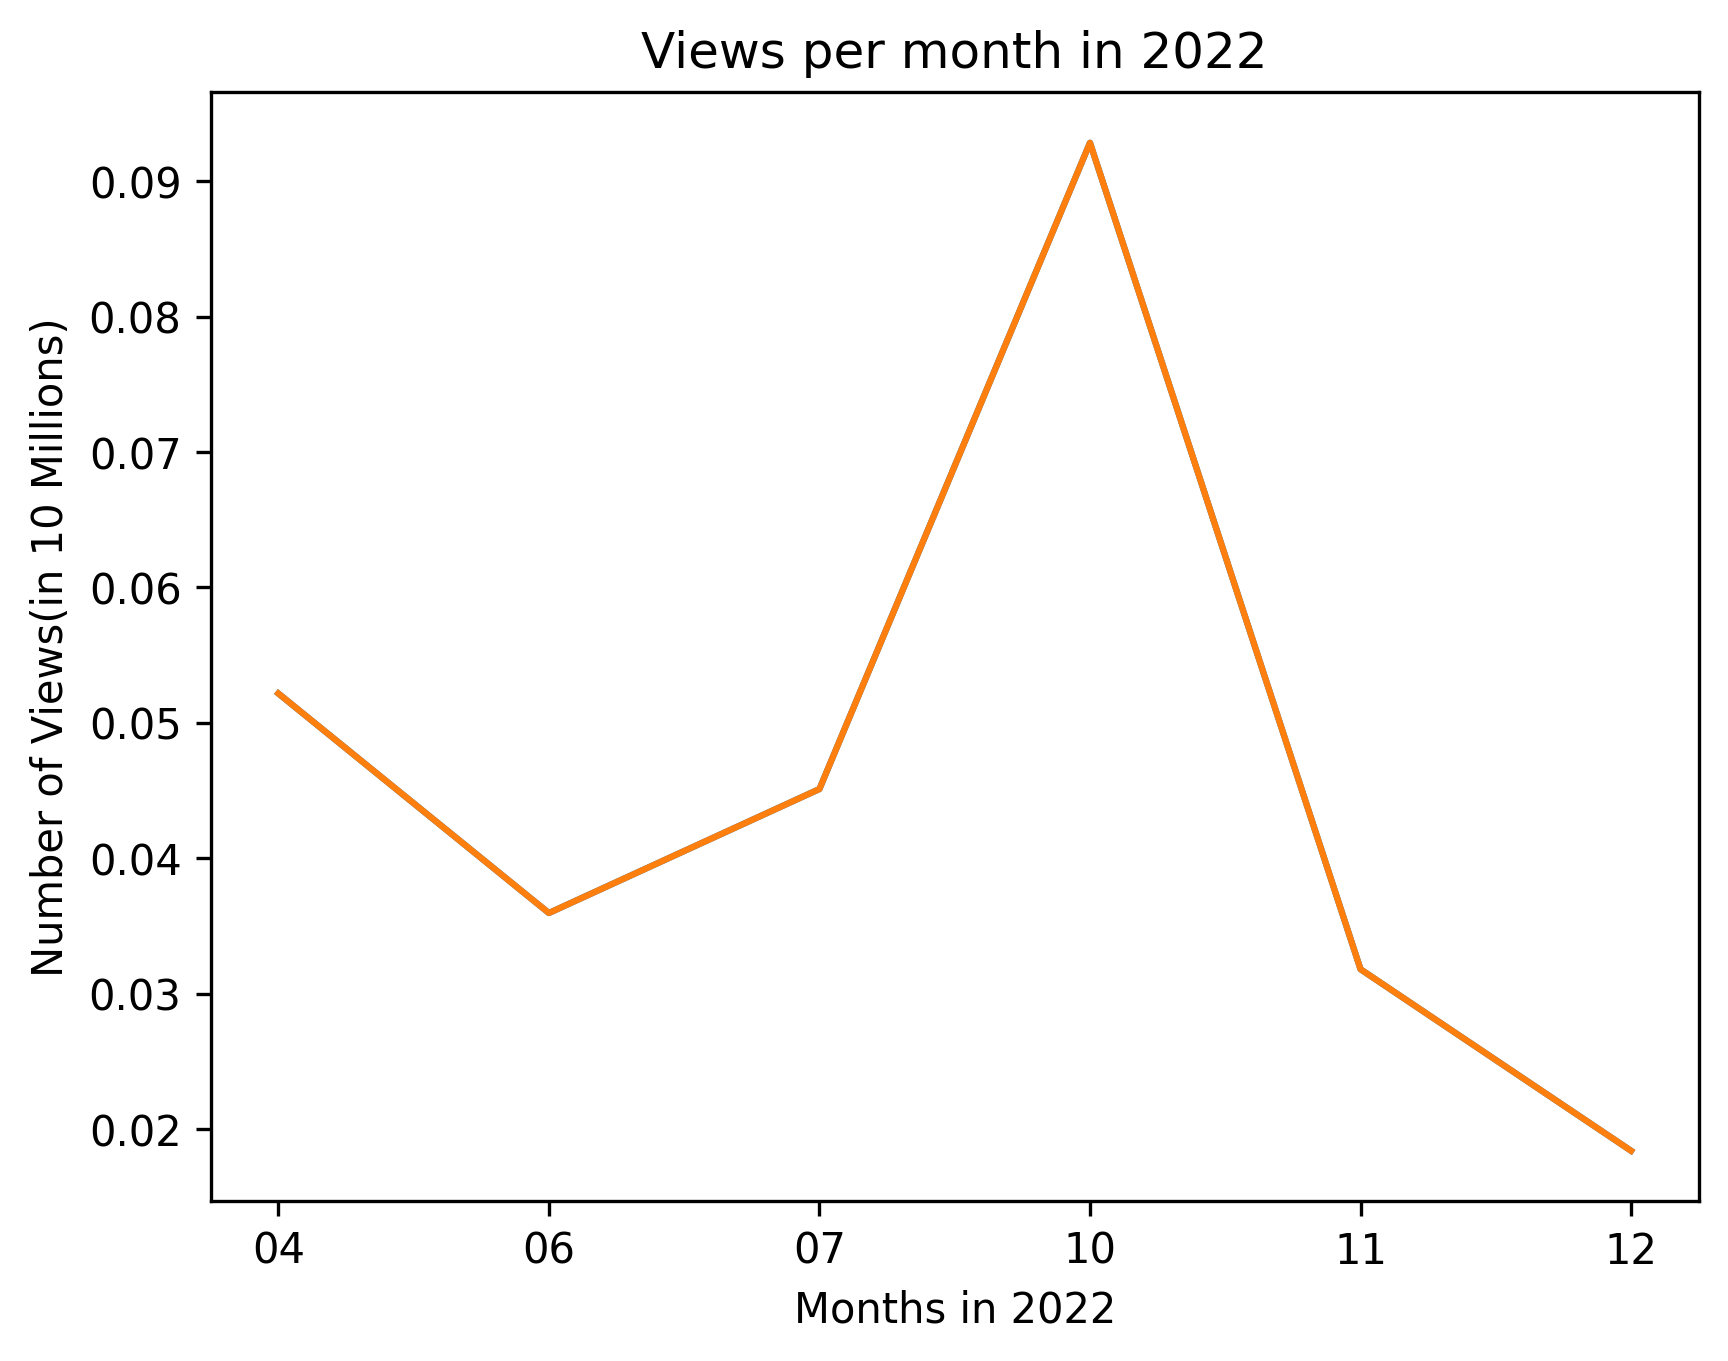
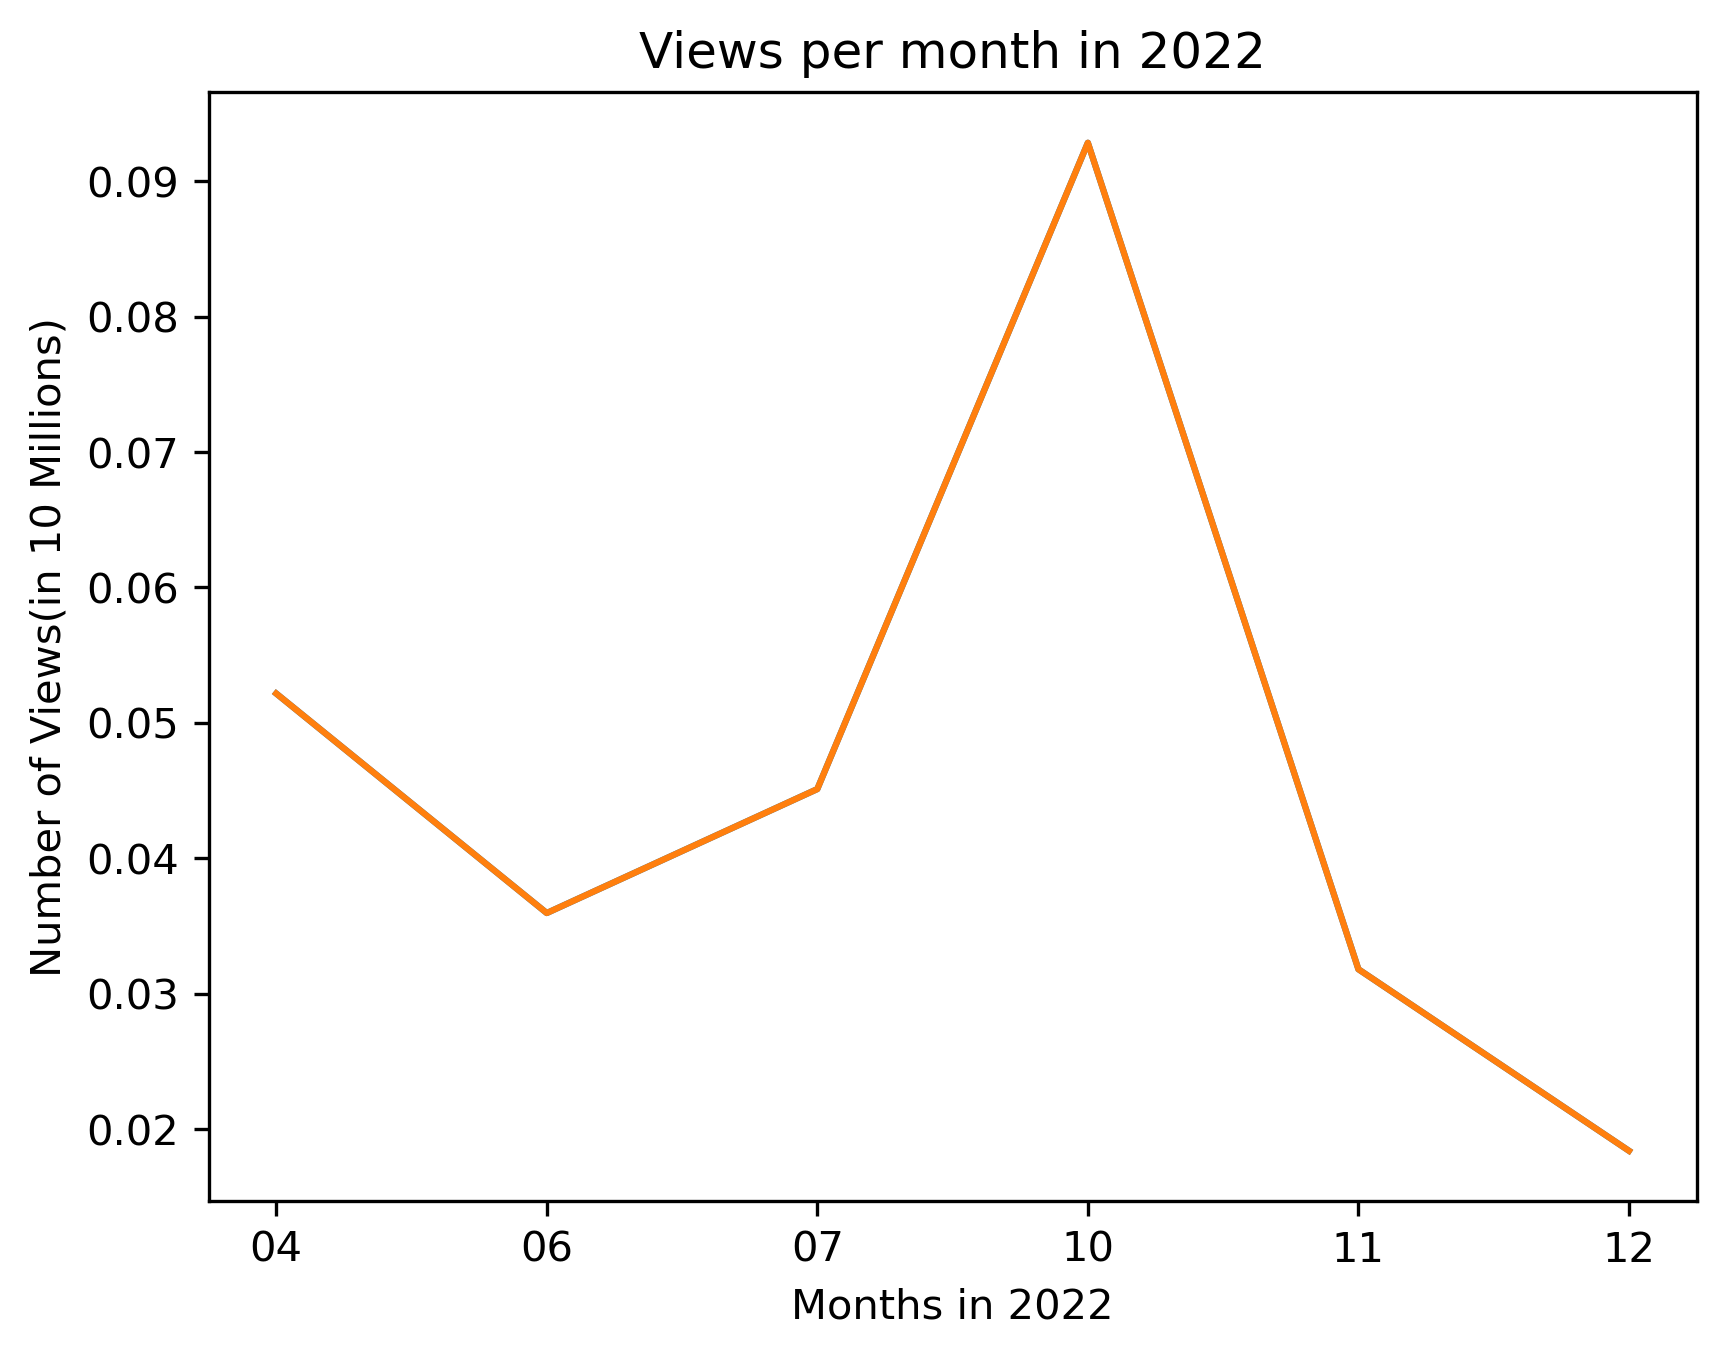
hsrhs

diff --git a/data.py b/data.py
@@ -9,6 +9,23 @@ from datetime import datetime
 channel_id = "UCi3OE-aN09WOcN9d2stCvPg"
 api_key='AIzaSyBxQFIR2uhWf3aYB3xl0ExNJMGR4aGk5l4'
 youtube = build('youtube', 'v3', developerKey=api_key)
+q=input('What youtube creator do you want to invest in?')
+ 
+request = youtube.search().list(
+     part='id,snippet',
+    q=q,
+    type='video',
+   maxResults=50 )
+
+response = request.execute()
+
+#print(response)
+
+for item in response['items']:
+    if q in item['snippet']['channelTitle']:
+        channel_id=item['snippet']['channelId']
+ # for key,value in item.items(): 
+ #     print(key,value)
 
 channel_ids = ['UCG8rbF3g2AMX70yOd8vqIZg', # Logan Paul
                'UCi3OE-aN09WOcN9d2stCvPg', # Charli Damelio
@@ -129,13 +146,14 @@ df_sorted['view_count'] = (df_sorted['view_count'] / 10000000)
 
 
 
-plot = sns.lineplot(x='published', y='view_count', data=df_sorted, errorbar=None)
+plot = sns.lineplot(x='published', y='view_count', data=df_sorted, ci=None)
 plot.set(title='Views per month in 2022', xlabel='Months in 2022', ylabel='Number of Views(in 10 Millions)')
 #plt.show()
 
 
-plot = sns.lineplot(x='published', y='view_count', data=df_sorted, errorbar=None)
+plot = sns.lineplot(x='published', y='view_count', data=df_sorted, ci=None)
 plot.set(title='Views per month in 2022', xlabel='Months in 2022', ylabel='Number of Views(in 10 Millions)')
+
 
 # Save the plot as an image
 filename = "assets/img/charli_data.png"
@@ -148,4 +166,6 @@ plt.savefig(filename, dpi=300, bbox_inches='tight')
 
  
 
-#print(plt.plot(df_sorted["published"], df_sorted["view_count"]))
+#print(plt.plot(df_sorted["published"], df_sorted["view_count"]))'''
+
+
